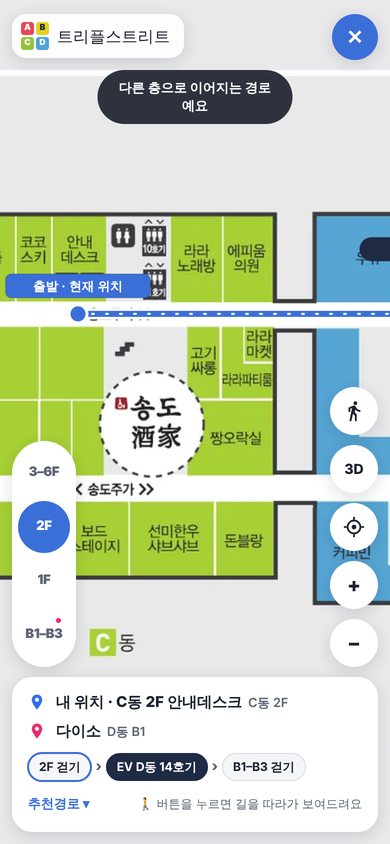
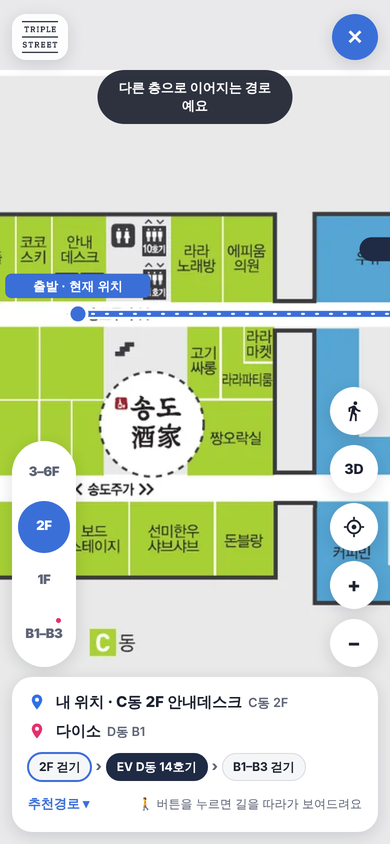
트리플스트리트 공식 로고 적용
- 상단 브랜드 영역에 TRIPLE STREET 로고 + 'SONGDO / 층별 가이드맵'
- 길 안내 중에는 왼쪽 위에 로고만 작게 표시
- 로고는 투명 배경으로 바꿔 밝은·어두운 화면 글자색에 맞춰 보이게 함
- 브라우저 탭 아이콘, 휴대폰 홈 화면 아이콘(icon-180.png) 추가

Claude-Session: https://claude.ai/code/session_01DdQ5bWBvcq9ESYXProKByU

Changed region(s): [[0.0308, 0.0, 0.4308, 0.0924]]

diff --git a/index.html b/index.html
@@ -5,6 +5,9 @@
 <meta name="viewport" content="width=device-width, initial-scale=1, viewport-fit=cover">
 <meta name="description" content="트리플스트리트 층별 가이드맵 · QR로 현재 위치 확인 및 길 안내">
 <title>트리플스트리트 QR 가이드맵</title>
[1 lines of base64/hex data omitted]
+<link rel="apple-touch-icon" href="icon-180.png">
+<meta name="theme-color" content="#ffffff">
 <link rel="preconnect" href="https://fonts.googleapis.com">
 <link rel="preconnect" href="https://fonts.gstatic.com" crossorigin>
 <link rel="stylesheet" href="https://fonts.googleapis.com/css2?family=Black+Han+Sans&family=Noto+Sans+KR:wght@400;500;700;800&display=swap">
@@ -85,7 +88,7 @@ body:not(.editing) .mapwrap{position:absolute;inset:0}
 body:not(.editing) .tabs,body:not(.editing) .maphint,body:not(.editing) .mapctl{display:none}
 body.editing .cx,body.editing .sheet-full{display:none!important}
 .cx{position:absolute;z-index:5}
-:root{--cx-pad:max(12px,env(safe-area-inset-left));--cards-h:150px;--shadow:0 4px 16px rgba(20,28,45,.14);--pin-dest:#e5306b;--pin-start:#2f6fe4}
[1 lines of base64/hex data omitted]
 @media (prefers-color-scheme: dark){:root:not([data-theme="light"]){--shadow:0 4px 18px rgba(0,0,0,.45)}}
 :root[data-theme="dark"]{--shadow:0 4px 18px rgba(0,0,0,.45)}
 
@@ -152,15 +155,13 @@ body.editing .cx,body.editing .sheet-full{display:none!important}
 .nv-mode{border:0;background:transparent;color:var(--route);font-weight:800;font-size:13px;padding:4px 0}
 .nv-hint{font-size:12px;color:var(--muted)}
 body.nav .cx-top,body.nav .cx-cards{display:none}
-.cx-brand{display:flex;align-items:center;gap:10px;align-self:flex-start;padding:6px 14px 6px 8px;border-radius:14px;background:color-mix(in srgb,var(--surface) 90%,transparent);box-shadow:var(--shadow);backdrop-filter:blur(6px)}
-.cx-brand .bk{display:grid;grid-template-columns:repeat(2,13px);gap:2px}
-.cx-brand .bk i{width:13px;height:13px;border-radius:3px;font-style:normal;font-size:8.5px;font-weight:900;line-height:13px;text-align:center;color:#fff}
-.cx-brand .bk .A{background:var(--bA)}.cx-brand .bk .B{background:var(--bB);color:#1d2230}.cx-brand .bk .C{background:var(--bC)}.cx-brand .bk .D{background:var(--bD)}
-.cx-brand .bt{display:flex;flex-direction:column;line-height:1.1}
+.cx-brand{display:flex;align-items:center;gap:10px;align-self:flex-start;padding:7px 14px 7px 10px;border-radius:14px;background:color-mix(in srgb,var(--surface) 90%,transparent);box-shadow:var(--shadow);backdrop-filter:blur(6px)}
+.cx-brand .logo{flex:none;display:block;width:45px;height:40px;background:var(--fg);-webkit-mask:var(--ts-logo) center/contain no-repeat;mask:var(--ts-logo) center/contain no-repeat}
+.cx-brand .bt{display:flex;flex-direction:column;line-height:1.1;padding-left:10px;border-left:1.5px solid var(--line)}
 .cx-brand small{font-size:9.5px;font-weight:800;letter-spacing:.16em;color:var(--muted)}
 .cx-brand b{font-family:var(--display);font-weight:400;font-size:19px;letter-spacing:.01em;color:var(--fg)}
-.cx-brand.mini{display:none;top:max(14px,env(safe-area-inset-top));left:var(--cx-pad);padding:8px 14px 8px 9px;gap:8px}
-.cx-brand.mini b{font-size:16px}
+.cx-brand.mini{display:none;top:max(14px,env(safe-area-inset-top));left:var(--cx-pad);padding:7px 10px}
+.cx-brand.mini .logo{width:36px;height:32px}
 body.nav .cx-brand.mini{display:flex}
 body.nav .cx-close{display:grid;place-items:center}
 body.nav .cx-nav{display:flex}
@@ -347,7 +348,7 @@ body{margin:0}img{max-width:100%}
   </div>
   <!-- ===== 고객 화면: 지도 위에 떠 있는 도구 ===== -->
   <div class="cx cx-top">
-    <div class="cx-brand" role="banner"><span class="bk" aria-hidden="true"><i class="A">A</i><i class="B">B</i><i class="C">C</i><i class="D">D</i></span><span class="bt"><small>TRIPLE STREET · SONGDO</small><b>트리플스트리트 가이드맵</b></span></div>
+    <div class="cx-brand" role="banner"><i class="logo" role="img" aria-label="TRIPLE STREET"></i><span class="bt"><small>SONGDO</small><b>층별 가이드맵</b></span></div>
     <div class="cx-bar">
       <button class="cx-search" id="openSearch" aria-label="매장·시설 검색"><svg width="22" height="22" viewBox="0 0 24 24" aria-hidden="true"><path fill="currentColor" d="M12 2a7 7 0 0 0-7 7c0 5.2 7 13 7 13s7-7.8 7-13a7 7 0 0 0-7-7Zm0 9.6A2.6 2.6 0 1 1 12 6.4a2.6 2.6 0 0 1 0 5.2Z"/></svg><span>무엇을 찾고 있나요?</span></button>
       <button class="cx-adm" id="openAdmin" hidden aria-label="관리자 메뉴">관리</button>
@@ -356,7 +357,7 @@ body{margin:0}img{max-width:100%}
     <button class="cx-here" id="herePill" hidden><i></i><span></span><small>현재 위치</small></button>
   </div>
   <div class="cx cx-pick" id="pickBar" hidden><span id="pickTxt"></span><button id="pickCancel">취소</button></div>
-  <div class="cx cx-brand mini" aria-hidden="true"><span class="bk"><i class="A">A</i><i class="B">B</i><i class="C">C</i><i class="D">D</i></span><b>트리플스트리트</b></div>
+  <div class="cx cx-brand mini"><i class="logo" role="img" aria-label="TRIPLE STREET"></i></div>
   <button class="cx cx-close" id="navClose" aria-label="길 안내 끝내기">✕</button>
   <div class="cx cx-rail" id="rail" role="tablist" aria-label="층 선택"></div>
   <div class="cx cx-fabs">
